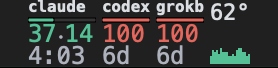
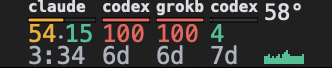
docs: refresh menu bar screenshot (Hide toggle, two Codex accounts)
Claude-Session: https://claude.ai/code/session_01QRQG62UQBFDCN5tmzu3c97

diff --git a/README.md b/README.md
@@ -3,7 +3,7 @@
 Your AI subscription limits in the macOS menu bar. One strip, one block per account.
 
 <p align="center">
-  <img src="docs/menubar-accounts.png" alt="menu bar: claude 37·14 · codex 100 · grokb 100 · 62° + load graph" width="280">
+  <img src="docs/menubar-accounts.png" alt="menu bar: claude · codex · grokb · second codex · 58° + load graph" width="300">
 </p>
 
 Each block: **% used** (5-hour · weekly, or just weekly) and **time until reset**
